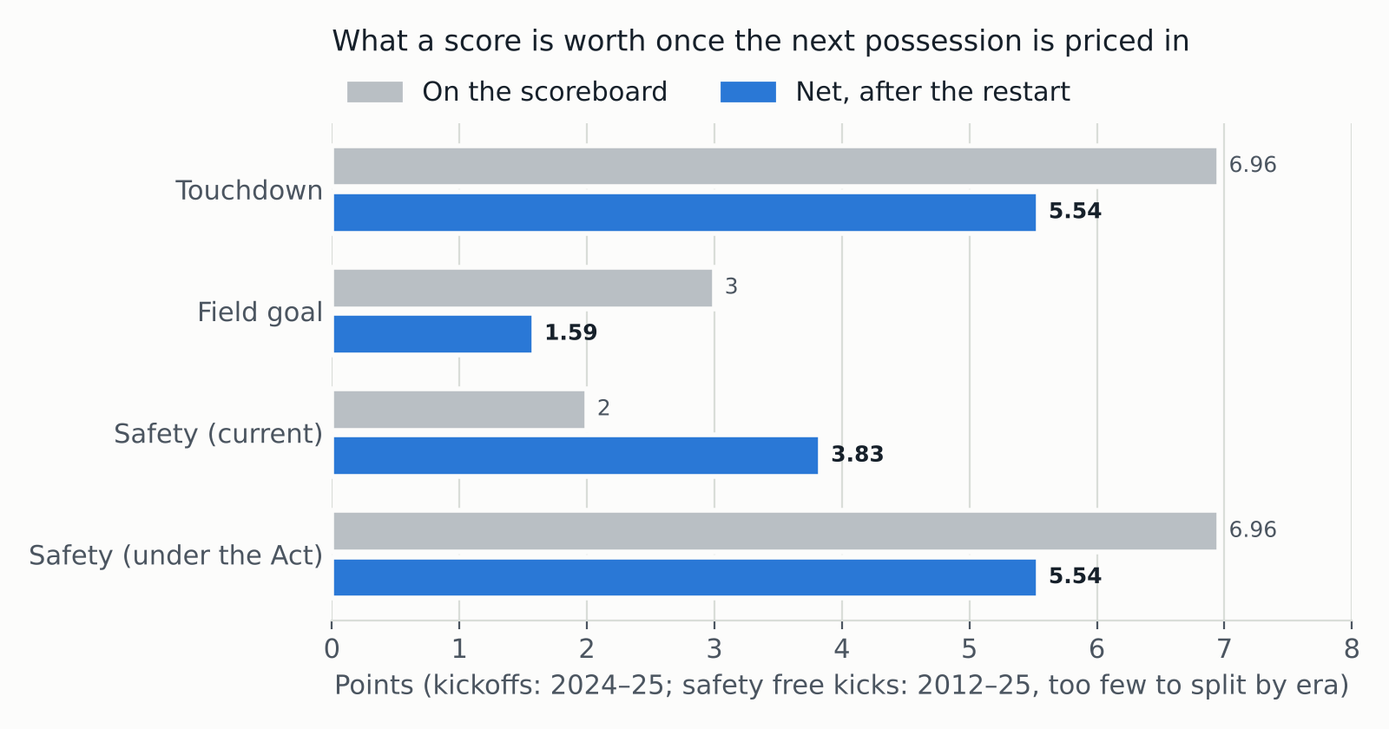
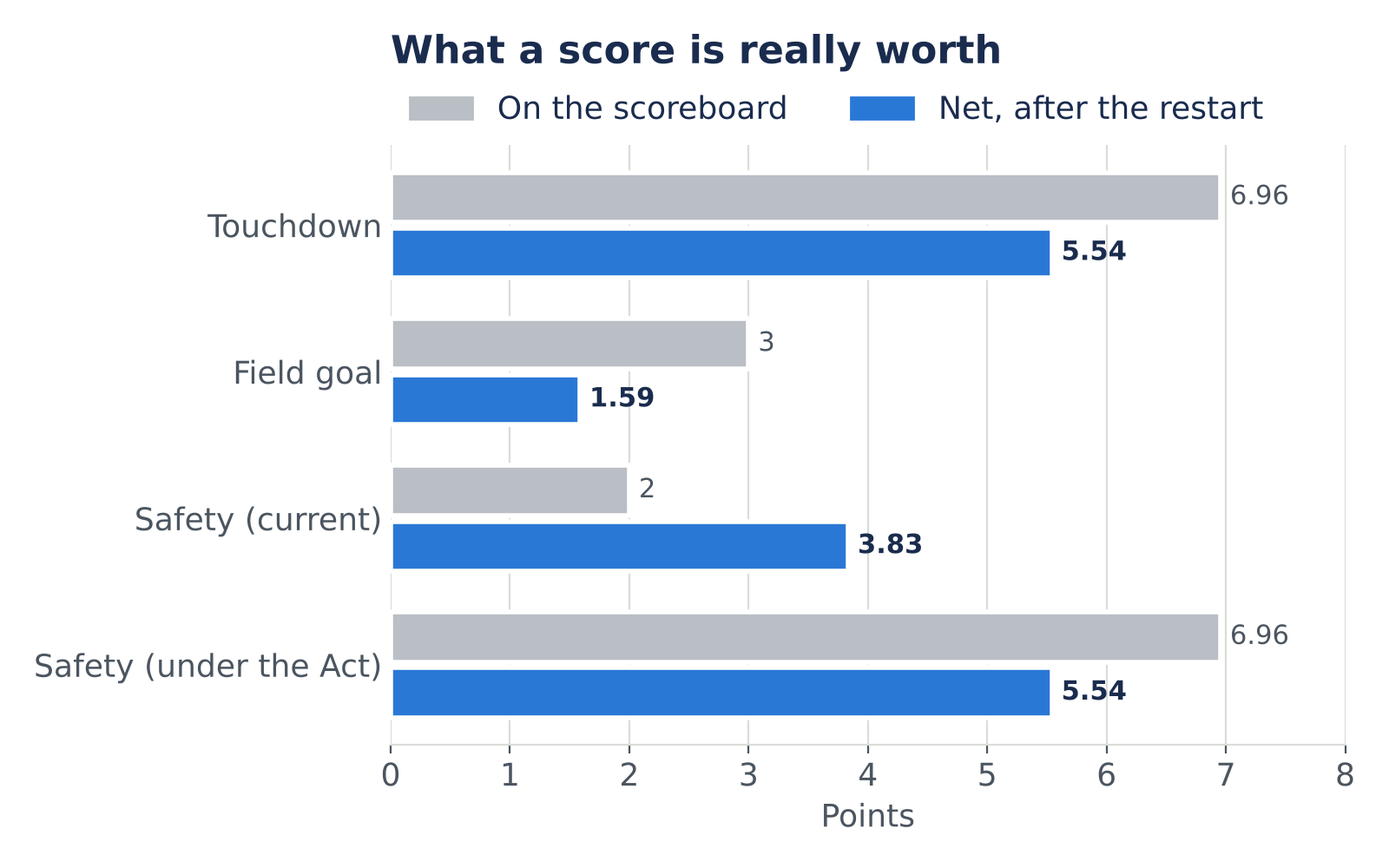
Two Points: restyle post for readability
Scoped post styles (bordered tables, amendment set as a document,
captions), stacked and enlarged decision map, larger value chart, and an
'In brief' summary. Dropped the value table that duplicated its chart.

Claude-Session: https://claude.ai/code/session_01SLJmktqH76d4R5Gzv6ULTa

diff --git a/posts/safety/visualization/plot_safety.py b/posts/safety/visualization/plot_safety.py
@@ -8,9 +8,9 @@ import pandas as pd
 
 A = "posts/safety/analysis"
 OUT = "posts/safety/assets"
-INK, INK2, RULE, BG = "#16202a", "#4b5560", "#d9ddd8", "#fcfcfb"
+INK, INK2, RULE, BG = "#1a2c4e", "#4b5560", "#d9ddd8", "#ffffff"
 NET, FACE, POS, NEG, MID = "#2a78d6", "#b9bfc4", "#2a78d6", "#e34948", "#f0efec"
-plt.rcParams.update({"font.family": "DejaVu Sans", "font.size": 11, "text.color": INK, "axes.labelcolor": INK2,
+plt.rcParams.update({"font.family": "DejaVu Sans", "font.size": 13, "text.color": INK, "axes.labelcolor": INK2,
                      "xtick.color": INK2, "ytick.color": INK2, "axes.edgecolor": RULE, "figure.facecolor": BG,
                      "axes.facecolor": BG})
 res = json.load(open(f"{A}/results.json"))
@@ -21,16 +21,16 @@ td_face = res["value_of_a_score"]["td_face"]
 pr = res["proposal"]
 rows = [("Touchdown", td_face, e["td_net"]), ("Field goal", 3, e["fg_net"]),
         ("Safety (current)", 2, pr["net_now_pooled"]), ("Safety (under the Act)", td_face, pr["net_act"])]
-fig, ax = plt.subplots(figsize=(8, 4.2), dpi=200)
+fig, ax = plt.subplots(figsize=(8, 5), dpi=200)
 for i, (n, f, net) in enumerate(rows):
     y = len(rows) - 1 - i
     ax.barh(y + 0.19, f, 0.34, color=FACE, edgecolor=BG, linewidth=2)
     ax.barh(y - 0.19, net, 0.34, color=NET, edgecolor=BG, linewidth=2)
-    ax.text(f + 0.08, y + 0.19, f"{f:.2f}".rstrip("0").rstrip("."), va="center", fontsize=9, color=INK2)
-    ax.text(net + 0.08, y - 0.19, f"{net:.2f}", va="center", fontsize=9, color=INK, fontweight="bold")
+    ax.text(f + 0.08, y + 0.19, f"{f:.2f}".rstrip("0").rstrip("."), va="center", fontsize=11, color=INK2)
+    ax.text(net + 0.08, y - 0.19, f"{net:.2f}", va="center", fontsize=11, color=INK, fontweight="bold")
 ax.set_yticks(range(len(rows)), [r[0] for r in rows][::-1])
 ax.set_xlim(0, 8)
-ax.set_xlabel("Points (kickoffs: 2024–25; safety free kicks: 2012–25, too few to split by era)")
+ax.set_xlabel("Points")
 ax.grid(axis="x", color=RULE, linewidth=0.8)
 ax.set_axisbelow(True)
 for s in ("top", "right", "left"):
@@ -39,39 +39,38 @@ ax.tick_params(axis="y", length=0)
 ax.legend(handles=[plt.Rectangle((0, 0), 1, 1, color=FACE), plt.Rectangle((0, 0), 1, 1, color=NET)],
           labels=["On the scoreboard", "Net, after the restart"], frameon=False, ncol=2,
           loc="lower left", bbox_to_anchor=(0, 1.0), borderaxespad=0.2)
-ax.set_title("What a score is worth once the next possession is priced in", loc="left", fontsize=12, pad=30)
+ax.set_title("What a score is really worth", loc="left", fontsize=16, pad=34, fontweight="bold")
 fig.tight_layout()
 fig.savefig(f"{OUT}/safety_value.png")
 
-# 2. Decision map, current vs proposed
+# 2. Decision map, current vs proposed (stacked so it reads at phone width)
 g = pd.read_csv(f"{A}/decision_grid_rules.csv")
-g = g[g.lead >= -6]
+g = g[g.lead.between(-4, 16)]
 secs = sorted(g.secs.unique(), reverse=True)
 leads = sorted(g.lead.unique())
 fmt = lambda t: f"{t // 60}:{t % 60:02d}"
 cmap = LinearSegmentedColormap.from_list("div", [NEG, MID, POS])
 norm = TwoSlopeNorm(vmin=-6, vcenter=0, vmax=6)
-fig, axes = plt.subplots(1, 2, figsize=(12, 7.6), dpi=200, sharey=True)
+fig, axes = plt.subplots(2, 1, figsize=(8, 13), dpi=200, sharex=True, layout="constrained")
 for ax, col, title in zip(axes, ["delta_now", "delta_td_rule"],
-                          ["Current rule: 2 points + free kick", "Defensive Touchdown Act: TD + kickoff"]):
+                          ["Current rule: 2 points + free kick", "Defensive Touchdown Act"]):
     m = g.pivot(index="lead", columns="secs", values=col)[secs] * 100
     ax.imshow(m.clip(-6, 6).values, cmap=cmap, norm=norm, aspect="auto", origin="lower")
-    ax.set_xticks(range(len(secs)), [fmt(t) for t in secs], rotation=60, fontsize=8)
-    ax.set_yticks(range(len(leads)), [f"{l:+d}" if l else "0" for l in leads], fontsize=8)
+    ax.set_yticks(range(len(leads)), [f"{l:+d}" if l else "0" for l in leads], fontsize=11)
+    ax.set_xticks(range(len(secs)), [fmt(t) for t in secs], rotation=60, fontsize=11)
     ax.set_xticks([x - 0.5 for x in range(len(secs) + 1)], minor=True)
     ax.set_yticks([y - 0.5 for y in range(len(leads) + 1)], minor=True)
     ax.grid(which="minor", color=BG, linewidth=1.5)
     ax.tick_params(which="minor", length=0)
-    ax.set_title(title, loc="left", fontsize=12)
-    ax.set_xlabel("Time left in game")
-    for s in ax.spines.values():
-        s.set_visible(False)
-axes[0].set_ylabel("Lead of the team pinned deep (points)")
+    ax.set_title(title, loc="left", fontsize=15, fontweight="bold", color=INK)
+    ax.set_ylabel("Your lead (points)")
+    for sp in ax.spines.values():
+        sp.set_visible(False)
+axes[1].set_xlabel("Time left in game")
 sm = plt.cm.ScalarMappable(cmap=cmap, norm=norm)
-cb = fig.colorbar(sm, ax=axes, orientation="horizontal", fraction=0.04, pad=0.14, aspect=50)
-cb.set_label("Change in win probability from conceding instead of punting, percentage points (color capped at ±6). Assumes 2 timeouts each, 5 s burned by the punter.")
+cb = fig.colorbar(sm, ax=axes, location="bottom", fraction=0.03, pad=0.02, aspect=40, shrink=0.9)
+cb.set_ticks([-6, -3, 0, 3, 6], labels=["Punt\nmuch better", "", "Same", "", "Safety\nmuch better"])
 cb.outline.set_visible(False)
-fig.suptitle("4th down at your own 1–5 in the 4th quarter: concede a safety or punt? Blue = conceding wins.",
-             x=0.06, ha="left", fontsize=12, color=INK)
+fig.suptitle("Pinned at your own 1–5: take the safety or punt?", x=0.02, ha="left", fontsize=17, fontweight="bold", color=INK)
 fig.savefig(f"{OUT}/safety_decision_map.png", bbox_inches="tight")
 print("ok")

diff --git a/posts/safety/index.md b/posts/safety/index.md
@@ -4,52 +4,94 @@ title: "The Defensive Touchdown Act: A Data-Driven Proposal to Revalue the Safet
 permalink: /post/safety/
 ---
 
-# The Defensive Touchdown Act: A Data-Driven Proposal to Revalue the Safety
+<style>
+  .dta { max-width: 760px; margin: 0 auto; padding-bottom: 3rem; }
+  .dta h1 { font-size: clamp(2rem, 6vw, 2.9rem); text-wrap: balance; margin-bottom: .4rem; }
+  .dta h2 { font-size: 1.7rem; margin-top: 3rem; padding-top: 1.25rem; border-top: 2px solid var(--color-primary); }
+  .dta h3 { font-size: 1.25rem; margin-top: 2rem; }
+  .dta p, .dta li { font-size: 1.08rem; }
+  .dta .filing { font-size: .82rem; letter-spacing: .08em; text-transform: uppercase; color: #6b6b66; margin-bottom: 1.75rem; }
+  .dta .brief { background: #fff; border: 1px solid var(--color-border); border-top: 5px solid var(--color-accent); padding: 1.25rem 1.4rem .5rem; margin: 0 0 2rem; }
+  .dta .brief .label, .dta .doc .label { display: block; font-size: .78rem; font-weight: 600; letter-spacing: .12em; text-transform: uppercase; color: var(--color-secondary); margin-bottom: .5rem; }
+  .dta .brief ul { padding-left: 1.2rem; }
+  .dta .brief li { margin-bottom: .6rem; }
+  .dta .doc { background: #fff; border: 4px double var(--color-primary); padding: 1.4rem 1.5rem .6rem; margin: 1.25rem 0 1.5rem; }
+  .dta .doc p { font-size: 1.02rem; }
+  .dta .doc .section { padding-left: .9rem; border-left: 3px solid var(--color-accent); }
+  .dta table { width: 100%; border-collapse: collapse; margin: 1.25rem 0 .4rem; font-size: .98rem; background: #fff; font-variant-numeric: tabular-nums; }
+  .dta th { background: var(--color-primary); color: #fff; font-weight: 600; text-align: left; padding: .55rem .75rem; line-height: 1.3; }
+  .dta td { padding: .55rem .75rem; border-bottom: 1px solid var(--color-border); vertical-align: top; line-height: 1.4; }
+  .dta tbody tr:nth-child(even) td { background: #f9f9f6; }
+  .dta td:not(:first-child), .dta th:not(:first-child) { text-align: right; }
+  .dta td strong { color: var(--color-primary); }
+  .dta table.costs td, .dta table.costs th { text-align: left; }
+  .dta table.costs td:first-child { white-space: nowrap; }
+  .dta .note { font-size: .88rem; color: #6b6b66; line-height: 1.5; margin: .35rem 0 1.5rem; }
+  .dta figure { margin: 1.75rem 0; background: #fff; border: 1px solid var(--color-border); padding: .75rem; }
+  .dta figure img { display: block; width: 100%; }
+  .dta figcaption { font-size: .88rem; color: #6b6b66; line-height: 1.5; padding: .6rem .25rem 0; }
+  .dta .signoff { margin-top: 2.5rem; font-style: italic; }
+  @media (max-width: 600px) {
+    .dta p, .dta li { font-size: 1rem; }
+    .dta table { font-size: .86rem; }
+    .dta th, .dta td { padding: .45rem .5rem; }
+    .dta .doc, .dta .brief { padding: 1rem 1rem .4rem; }
+  }
+</style>
 
-> November 9, 2026 · Filed by the Ministry of Silly Plots, Office of Scoring Reform · File 2-PT/SAF
+<div class="dta" markdown="1">
 
-<div style="background-color: #f4f4f0; border-left: 4px solid #e2a900; padding: 15px; margin-bottom: 25px;">
-  <strong>SUMMARY</strong><br>
-  The Ministry proposes that a safety be scored as a <strong>touchdown for the defense</strong>, followed by a normal kickoff, with the game clock reset if it happens in the final two minutes of a half. A defense that drives an offense backward into its own end zone has done something worth a touchdown, and should be paid like it. Using 675,997 NFL plays from 2012 to 2025, the Ministry finds that the Act (1) rewards defenses that earn safeties, four in five of which come from the pass rush or run defense, (2) corrects a scoreboard that already understates the safety, which is worth about 3.8 points rather than 2, and (3) ends the one deliberate use of the safety: a punter running backward to burn the clock. It would add about 27 points a season across the league and would have changed 20 to 30 results since 2012.
+# The Defensive Touchdown Act
+
+<p class="filing">A data-driven proposal to revalue the safety · Ministry of Silly Plots, Office of Scoring Reform · File 2-PT/SAF · November 9, 2026</p>
+
+<div class="brief">
+<span class="label">In brief</span>
+<p>The Ministry proposes that a safety be scored as a <strong>touchdown for the defense</strong>, followed by a normal kickoff. A defense that drives an offense backward into its own end zone has done something worth a touchdown, and should be paid like it. Using 675,997 NFL plays from 2012 to 2025, we find the Act would:</p>
+<ul>
+<li><strong>Reward defenses that earn safeties.</strong> Four in five come from the pass rush or run defense.</li>
+<li><strong>Correct a scoreboard that already undervalues the safety.</strong> Counting the free kick, it is worth about 3.8 points, not 2.</li>
+<li><strong>End the backward run.</strong> The only deliberate use of a safety today is a punter retreating to burn the clock.</li>
+</ul>
+<p>The cost: about 27 points a season across the league, and 20 to 30 results since 2012 that would have gone the other way.</p>
 </div>
 
 ## The Proposed Amendment
 
-**WHEREAS** a field goal is worth three points and a safety two, although a field goal requires the offense to advance and a safety requires the defense to send it backward through its own end zone;
-
-**WHEREAS** the two points have not been revised in living memory, and no member of this Ministry can recall being consulted;
-
-**WHEREAS** the rules currently reward a team protecting a late lead for having its punter run as far as 34 yards backward and be tackled in his own end zone;
-
-**NOW, THEREFORE,** the Ministry proposes:
-
-> **Section 1.** A safety shall be scored as a touchdown for the defending team, worth six points.
->
-> **Section 2.** The scoring team shall be entitled to a try, as after any touchdown.
->
-> **Section 3.** Following the try, the scoring team shall kick off to the team that conceded the safety, under the kickoff rules then in force. The free kick from the 20-yard line is abolished.
->
-> **Section 4.** If a safety occurs in the final two minutes of either half, the game clock shall be reset to the time remaining at the snap.
->
-> **Section 5.** Nothing in this amendment shall be construed as an endorsement of punters running backward.
+<div class="doc">
+<span class="label">Preamble</span>
+<p><strong>WHEREAS</strong> a field goal is worth three points and a safety two, although a field goal requires the offense to advance and a safety requires the defense to send it backward through its own end zone;</p>
+<p><strong>WHEREAS</strong> the two points have not been revised in living memory, and no member of this Ministry can recall being consulted;</p>
+<p><strong>WHEREAS</strong> the rules currently reward a team protecting a late lead for having its punter run as far as 34 yards backward and be tackled in his own end zone;</p>
+<p><strong>NOW, THEREFORE,</strong> the Ministry proposes:</p>
+<span class="label">Text of the Act</span>
+<p class="section"><strong>Section 1.</strong> A safety shall be scored as a touchdown for the defending team, worth six points.</p>
+<p class="section"><strong>Section 2.</strong> The scoring team shall be entitled to a try, as after any touchdown.</p>
+<p class="section"><strong>Section 3.</strong> Following the try, the scoring team shall kick off to the team that conceded the safety, under the kickoff rules then in force. The free kick from the 20-yard line is abolished.</p>
+<p class="section"><strong>Section 4.</strong> If a safety occurs in the final two minutes of either half, the game clock shall be reset to the time remaining at the snap.</p>
+<p class="section"><strong>Section 5.</strong> Nothing in this amendment shall be construed as an endorsement of punters running backward.</p>
+</div>
 
 ## The Act at a Glance
 
 | | Current rule | Under the Act |
-|---|---|---|
-| Points on the scoreboard | 2 | 6 + try (6.96 on average) |
-| Who gets the ball next | the defense, by free kick | the offense, by kickoff |
-| Net value to the defense | 3.83 | 5.54 |
-| Swing for the defense, vs. before the snap | 2.9 | 4.6 |
-| How much better punting is than conceding, own 1–2 | 0.83 pts | 2.54 pts |
-| Largest win-probability gain from conceding on purpose | 4.9 WP pts | 0.2 WP pts (noise) |
-| Extra value across the league per season | — | about 27 points |
+|---|---:|---:|
+| Points on the scoreboard | 2 | 6 + try (6.96 avg.) |
+| Who gets the ball next | defense, by free kick | offense, by kickoff |
+| Net value to the defense | 3.83 | **5.54** |
+| Swing for the defense, vs. before the snap | 2.9 | **4.6** |
+| How much better punting is than conceding, own 1–2 | 0.83 pts | **2.54 pts** |
+| Largest gain from conceding on purpose | 4.9 WP pts | **0.2 WP pts** |
+| Extra value across the league per season | — | **~27 pts** |
 
-*Net value = points scored plus or minus the value of the next possession, in expected points. WP pts = percentage points of win probability. The current-rule column uses all 185 post-safety free kicks from 2012–25; the Act column uses 2024–25 kickoffs.*
+<p class="note">Net value = points scored, plus or minus the value of the next possession, in expected points. WP pts = percentage points of win probability. The current-rule column uses all 185 post-safety free kicks from 2012–25; the Act column uses 2024–25 kickoffs.</p>
 
-The money chart shows the Act's main effect. Each cell compares conceding a safety with punting, for a team facing 4th down at its own 1–5 in the fourth quarter. Blue means conceding wins. Under the current rule there is a blue corner in the final seconds. Under the Act there is none.
+The chart below shows the Act's main effect. Each cell compares conceding a safety with punting, for a team facing 4th down at its own 1–5 in the fourth quarter. Under the current rule there is a blue corner in the final seconds, where conceding wins. Under the Act there is none.
 
-![Decision map, current rule vs proposed](/posts/safety/assets/safety_decision_map.png)
+<figure>
+<img src="/posts/safety/assets/safety_decision_map.png" alt="Heatmaps comparing conceding a safety with punting, by lead and time left, under the current rule and under the Act">
+<figcaption>Win-probability model trained on 2012–24 snaps. Each cell resamples real punts from a team's own 1–5 (449 plays), real post-safety free kicks (207) and, for the Act, real kickoffs. Assumes 2 timeouts each, an even point spread, and 5 seconds burned by the punter. Isolated pale-blue cells away from the final seconds, such as +7 at 4:00, are model noise of about ±3 points.</figcaption>
+</figure>
 
 ## The Case for the Act
 
@@ -58,7 +100,7 @@ The money chart shows the Act's main effect. Each cell compares conceding a safe
 Of the 220 safeties since 2012 that were not conceded on purpose:
 
 | How it happened | Safeties |
-|---|---|
+|---|---:|
 | Sack | 86 |
 | Ball carrier stopped in the end zone | 66 |
 | Intentional grounding in the end zone | 22 |
@@ -66,87 +108,77 @@ Of the 220 safeties since 2012 that were not conceded on purpose:
 | Blocked punt | 14 |
 | Other | 10 |
 
-Sacks and stopped runs alone account for about two thirds. Counting intentional grounding, which is usually a quarterback under pressure, the pass rush and run defense account for four in five.
+Sacks and stopped runs alone account for about two thirds. Counting intentional grounding, usually a quarterback under pressure, the pass rush and run defense account for four in five.
 
-The field position usually comes first. 77% of these safeties came on drives that started inside the offense's own 10, and 31% on the very first snap of the drive. Only 6% came on drives that began beyond the offense's own 20. The defense usually finishes the job, after a punter or kickoff coverage unit starts it. The Act pays the defense for the finish; the Ministry regards the rest as teamwork and declines to split the award.
+The field position usually comes first. 77% of these safeties came on drives that started inside the offense's own 10, and 31% on the drive's very first snap. Only 6% came on drives that began beyond the offense's own 20. The defense usually finishes a job that a punter or kickoff coverage unit started. The Act pays the defense for the finish. The Ministry regards the rest as teamwork and declines to split the award.
 
-### 2. The scoreboard already understates the safety
+### 2. The scoreboard already undervalues the safety
 
-Every score has two parts: the points, and what happens next. After a touchdown or field goal, the scoring team kicks off. After a safety, the conceding team must free-kick from its own 20, and the *scoring* team gets the ball.
+Every score has two parts: the points, and what happens next. After a touchdown or field goal, the scoring team kicks off. After a safety, the conceding team must free-kick from its own 20, and the *scoring* team gets the ball. We priced that next possession after every restart since 2012.
 
-We priced the next possession after every restart since 2012, using expected points (EP) at the first snap of the following drive.
+<figure>
+<img src="/posts/safety/assets/safety_value.png" alt="Bar chart of scoreboard points and net value for a touchdown, field goal, safety today, and safety under the Act">
+<figcaption>Net value = scoreboard points plus or minus the expected points of the next possession, measured at its first snap. Kickoffs: 2024–25 (2,476 after touchdowns, 1,683 after field goals). Free kicks after a safety: all 185 from 2012–25 (standard error 0.06); the 21 in 2024–25 alone give 1.93 ± 0.43.</figcaption>
+</figure>
 
-![What each score is worth once the next possession is priced in](/posts/safety/assets/safety_value.png)
+A safety is already worth about 2.4 field goals once each is netted against the possession that follows. In 2024–25, receiving a free kick was worth 0.51 points more than receiving a kickoff (95% interval 0.11 to 0.95). The field goal, meanwhile, keeps getting cheaper. Receivers now start after a field goal at their own 30 on average, up from their own 22 in 2012–15, and a field goal's net value has fallen from 2.25 to 1.59.
 
-| Score | On the scoreboard | Next possession | Net value |
-|---|---|---|---|
-| Touchdown | 6.96 | opponent receives kickoff (−1.41) | **5.54** |
-| Field goal | 3 | opponent receives kickoff (−1.41) | **1.59** |
-| Safety (current) | 2 | scorer receives free kick (+1.83) | **3.83** |
-| Safety (under the Act) | 6.96 | opponent receives kickoff (−1.41) | **5.54** |
-
-*Kickoff values: 2024–25 (2,476 kickoffs after touchdowns, 1,683 after field goals). Free-kick value: all 185 post-safety free kicks, 2012–25 (standard error 0.06). The 21 free kicks in 2024–25 alone give 1.93 ± 0.43.*
-
-A safety is already worth about 2.4 field goals once each is netted against the possession that follows. In 2024–25, receiving a free kick was worth 0.51 points more than receiving a kickoff (95% interval 0.11 to 0.95). The field goal has meanwhile been getting cheaper: receivers' average start after a field goal moved from their own 22 (2012–15) to their own 25 (2016–23) to their own 30 (2024–25), and a field goal's net value fell from 2.25 to 1.59.
-
-**What the data does and does not say.** It says the scoreboard understates the safety by about two points. It does not say a safety must equal a touchdown. That is the Act's principle, not its evidence. Under the Act the defense's net value matches any touchdown's. In swing, measured from where the defense stood before the snap, it does not: 4.6 points, against 6.7 for a pick-six, because a pick-six usually takes the ball from an offense in better shape.
+**What the data does and does not say.** It says the scoreboard undervalues the safety by about two points. It does not say a safety must equal a touchdown: that is the Act's principle, not its evidence. Under the Act the defense's net value matches any touchdown's. Its swing, measured from where the defense stood before the snap, does not: 4.6 points, against 6.7 for a pick-six, because a pick-six usually takes the ball from an offense in better shape.
 
 ### 3. It ends the backward run
 
-We built a win-probability model from 2012–24 snaps and tested it on 2025. Across all 2025 snaps its Brier score is 0.159, against 0.171 for nflverse's model. In the final 60 seconds (936 snaps) the two are level, at 0.082.
+Under the current rule, conceding a safety from deep is worse than punting in expected points: by 0.83 points from the 1–2, 1.17 from the 3–5, and 1.42 from the 6–10. In win probability, conceding wins only when leading by 3 to 7 points in the final 10 to 45 seconds.
 
-Under the current rule, conceding a safety from your own 1–5 is worse than punting in expected points: by 0.83 points from the 1–2, 1.17 from the 3–5, and 1.42 from the 6–10. In win probability it wins only when leading by 3 to 7 points in the final 10–45 seconds, the cutoff depending on the lead.
+That window is clock arithmetic. A deep punt takes a median of 11 seconds to reach the next snap, and a safety plus free kick takes 12. The more time the punter burns before giving himself up, the more conceding pays:
 
-That window is clock arithmetic. A punt from deep takes a median of 11 seconds to reach the next snap, and a safety plus free kick takes 12. The chart assumes the punter burns another 5 seconds in the end zone. The more time he burns, the more conceding pays:
+| Seconds the punter burns | Leads where conceding helps (final 30 s) | Largest gain |
+|---|---:|---:|
+| 0 | +5 to +7 | 1.7 WP pts |
+| 5 (as charted) | +3 to +7 | 4.9 WP pts |
+| 10 | +3 to +7 | 11.6 WP pts |
 
-| Seconds the punter burns | Leads where conceding helps, final 30 s | Largest gain |
-|---|---|---|
-| 0 | 5 to 7 | 1.7 WP pts |
-| 5 (as charted) | 3 to 7 | 4.9 WP pts |
-| 10 | 3 to 7 | 11.6 WP pts |
+The league uses the play exactly this way. Since 2012 there have been 11 intentional end-of-game safeties, all by teams leading by 5 to 30 with 63 seconds or less left. Only 2 of the 11 snapped from inside their own 5; the rest retreated from as far out as their own 34. The best known is Baltimore's in Super Bowl XLVII: up 5 with 12 seconds left, the punter ran 8 seconds off the clock before stepping out of the end zone.
 
-The league uses the play exactly this way. Since 2012 there have been 11 intentional end-of-game safeties, all by teams leading by 5 to 30 with 63 seconds or less left. Only 2 of the 11 snapped from inside their own 5. The rest retreated, from as far out as their own 34. The best known is Baltimore's in Super Bowl XLVII: up 5 with 12 seconds left, the punter ran 8 seconds off the clock before stepping out of the end zone.
-
-Sections 1–3 of the Act make conceding cost about 7 points instead of 2. That leaves no state where it pays: the largest gain anywhere on the grid is 0.1 WP pts, which is noise. A few states remain where conceding is merely free, at leads of 9 or more in the final seconds, when a punt also wins. Section 4 removes the clock time the retreat was buying. With it, those states cost 0.01 to 3.7 WP pts, and the backward run has no purpose left.
-
-Away from the final seconds, the left panel of the chart has a few isolated light-blue cells, such as +7 at 4:00. These are model noise of about ±3 points, not a strategy.
+Under Sections 1–3 of the Act, conceding costs about 7 points instead of 2. No state on the grid rewards it: the largest gain anywhere is 0.1 WP pts, which is noise. A few states remain where conceding is merely free, at leads of 9 or more in the final seconds, when a punt also wins. Section 4 removes the clock time the retreat was buying. With it, those states cost 0.01 to 3.7 WP pts, and the backward run has no purpose left.
 
 ## What the Act Would Cost
 
-**Points.** The Act adds 1.71 points of net value to each earned safety. At 15.7 earned safeties a season, that is about 27 points a season across all 32 teams.
+| Cost | Detail |
+|---|---|
+| **Points** | +1.71 net per earned safety; at 15.7 a season, about 27 points across all 32 teams |
+| **Results** | 20 to 30 reversed since 2012, depending on the try; with an extra point, 22 flips and 8 overtimes |
+| **The goal line** | An offense stopped at its own 1 instead of in its end zone: worth 1.0–3.3 points to the defense today, 2.8–5.0 under the Act |
+| **Penalties** | Intentional grounding (22) and other offensive penalties (22) in the end zone become 7-point calls, as do 14 blocked punts out of the end zone |
+{: .costs}
 
-**Results.** Applied to final scores alone, the Act would have reversed 20 to 30 results since 2012, depending on what the scoring team did with its try. With the usual extra point, 22 games flip and 8 more go to overtime. Among them is Buffalo at Miami in 2022, Week 3: a Miami punt deflected off an offensive player and left the end zone for a safety, and Buffalo lost 21–19. This is an upper bound, presented as color. Teams would have played these games differently, and the defense would have kicked off rather than received.
+<p class="note">The results figure applies the Act to final scores only. It is an upper bound: teams would have played those games differently, and the defense would have kicked off rather than received. Among the reversals is Buffalo at Miami, 2022 Week 3, when a Miami punt deflected off an offensive player and left the end zone, and Buffalo lost 21–19.</p>
 
-**The goal line.** Compare an offense stopped at its own 1 with one stopped in its end zone. Under current rules, that half-yard is worth 1.0 to 3.3 points to the defense, depending on the down. Under the Act it is worth 2.8 to 5.0. Spot-of-ball and forward-progress rulings at the offense's own goal line would carry near-touchdown stakes. The Ministry notes that the opposite goal line has carried such stakes since the invention of the goal line.
-
-**Penalties.** Intentional grounding (22) and other offensive penalties (22, mostly holding) in the end zone would become 7-point calls. So would the 14 blocked punts that went out of the end zone.
+Spot-of-ball and forward-progress calls at an offense's own goal line would carry near-touchdown stakes. The Ministry notes that the opposite goal line has carried such stakes since the invention of the goal line.
 
 ## Objections Considered
 
-**"A sack is not a pick-six."** Agreed: in swing terms it would still be worth 4.6 points against 6.7. The Ministry observes that both plays end with the defense in the end zone and the offense in disgrace.
+**"A sack is not a pick-six."** Agreed. In swing terms it would still be worth 4.6 points against 6.7. The Ministry observes that both plays end with the defense in the end zone and the offense in disgrace.
 
-**"Offenses would adapt."** They would. Teams pinned deep would likely punt earlier, call safer plays, and hold less near their own goal line. This analysis prices the Act against today's behavior and does not model those responses.
+**"Offenses would adapt."** They would. Teams pinned deep would likely punt earlier, call safer plays and hold less near their own goal line. This analysis prices the Act against today's behavior and does not model those responses.
 
-**"The free kick is part of the safety's charm."** The free kick is currently the mechanism by which the safety is undervalued. The Ministry is unsentimental about it.
+**"The free kick is part of the safety's charm."** The free kick is the reason the safety is undervalued today. The Ministry is unsentimental about it.
 
-**"Expected points are not points."** Net value credits the scorer with the possession that follows. Under a strict reading of the scoreboard that credit does not exist. This Ministry reads the whole game.
+**"Expected points are not points."** Net value credits the scorer with the possession that follows. A strict reading of the scoreboard gives no such credit. This Ministry reads the whole game.
 
 **Prior art.** Analysts have long noted that the free kick makes a safety worth more than two points. The Ministry claims no novelty for that observation, only for the paperwork.
 
 ## Methods and Data
 
-- **Data:** nflverse play-by-play, 2012–2025 regular and postseason, 675,997 plays in 3,829 games, deduplicated on game and play ID.
+- **Data:** nflverse play-by-play, 2012–2025 regular and postseason: 675,997 plays in 3,829 games, deduplicated on game and play ID.
 - **Restart value:** nflverse expected points at the first snap after each kickoff or free kick, excluding the final two minutes of each half. nflverse's own EPA scores a safety as a flat −2 and leaves out the free kick, so we price the free kick separately.
-- **Win probability:** a gradient-boosted classifier, constrained so that more points and better field position can never lower win probability. Trained on 2012–24, tested on 2025, with a separate check on the final 60 seconds.
-- **Decision map:** each option's outcomes are resampled from real plays and scored with the model, assuming 2 timeouts each and an even point spread. Samples:
-  - 449 punts from a team's own 1–5.
-  - 207 post-safety free kicks.
-  - 714 end-of-game kickoffs by teams trailing by 1–8 in the final five minutes, used for the Act. About half were onside attempts; the kicking team recovered 5.5%.
-- **Code:** `posts/safety/analysis/safety_analysis.py`. Every figure in this post is in `posts/safety/analysis/results.json` or the two decision-grid CSVs beside it.
+- **Win probability:** a gradient-boosted classifier, constrained so that more points and better field position never lower win probability. Trained on 2012–24 and tested on 2025, where its Brier score is 0.159 against nflverse's 0.171. In the final 60 seconds (936 snaps) the two are level at 0.082.
+- **Act simulation:** end-of-game kickoffs are drawn from 714 real kickoffs by teams trailing by 1–8 in the final five minutes. About half were onside attempts; the kicking team recovered 5.5%.
+- **Code:** `posts/safety/analysis/safety_analysis.py`. Every figure in this post is in `results.json` or the two decision-grid CSVs beside it.
 
 ## Recommendation
 
 The Ministry recommends that the Defensive Touchdown Act be adopted at the next available competition committee meeting or, failing that, the next available Thanksgiving dinner.
 
-*Respectfully submitted,*
-*The Office of Scoring Reform, Ministry of Silly Plots*
+<p class="signoff">Respectfully submitted,<br>The Office of Scoring Reform, Ministry of Silly Plots</p>
+
+</div>
